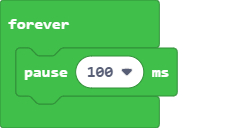
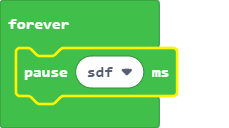
Update main.blocks, main.ts

Changed region(s): [[0.0611, 0.3438, 0.7948, 0.8438], [0.3668, 0.5, 0.5197, 0.625]]

diff --git a/main.ts b/main.ts
@@ -1,3 +1,3 @@
 forever(function () {
-    pause(100)
+    pause(sdf)
 })
